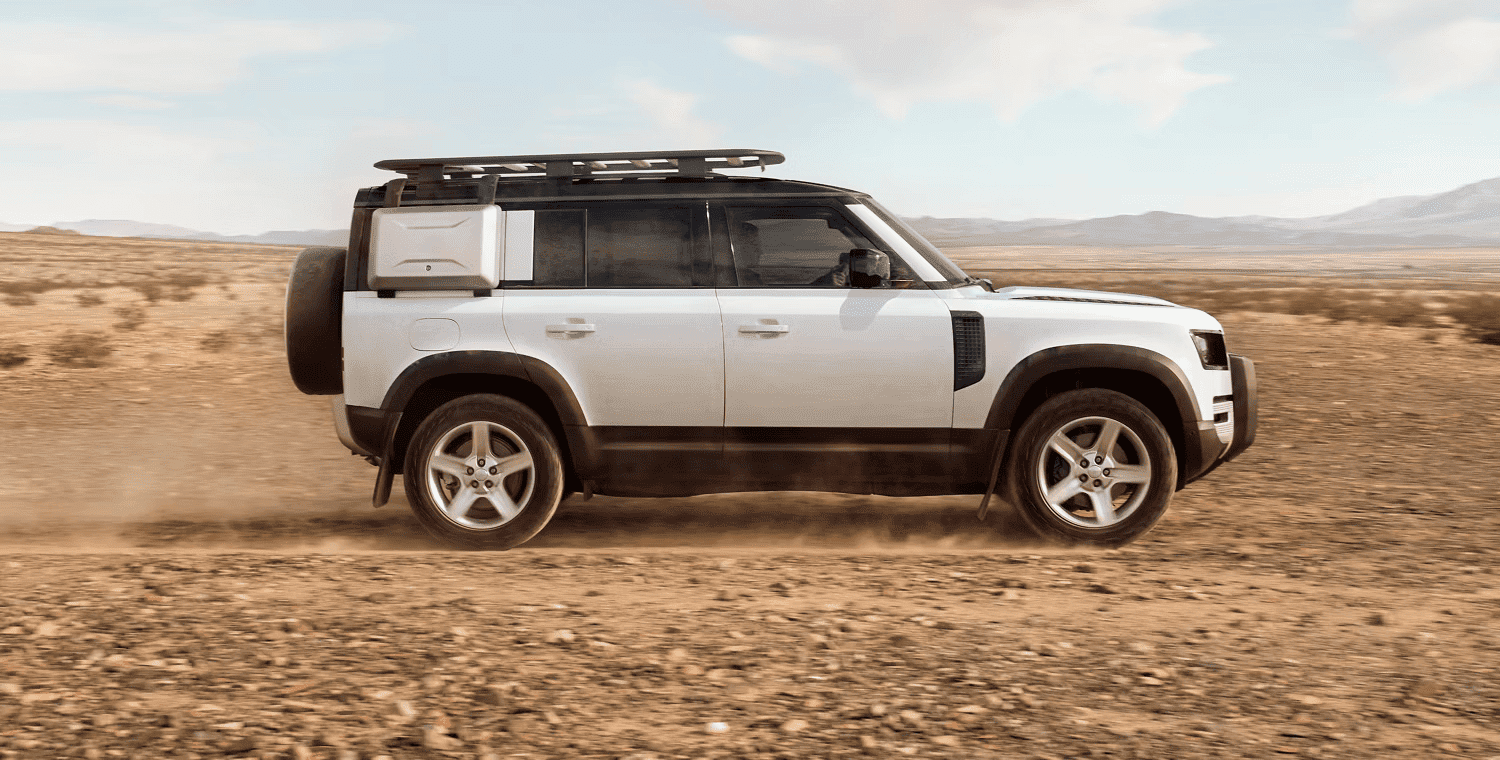
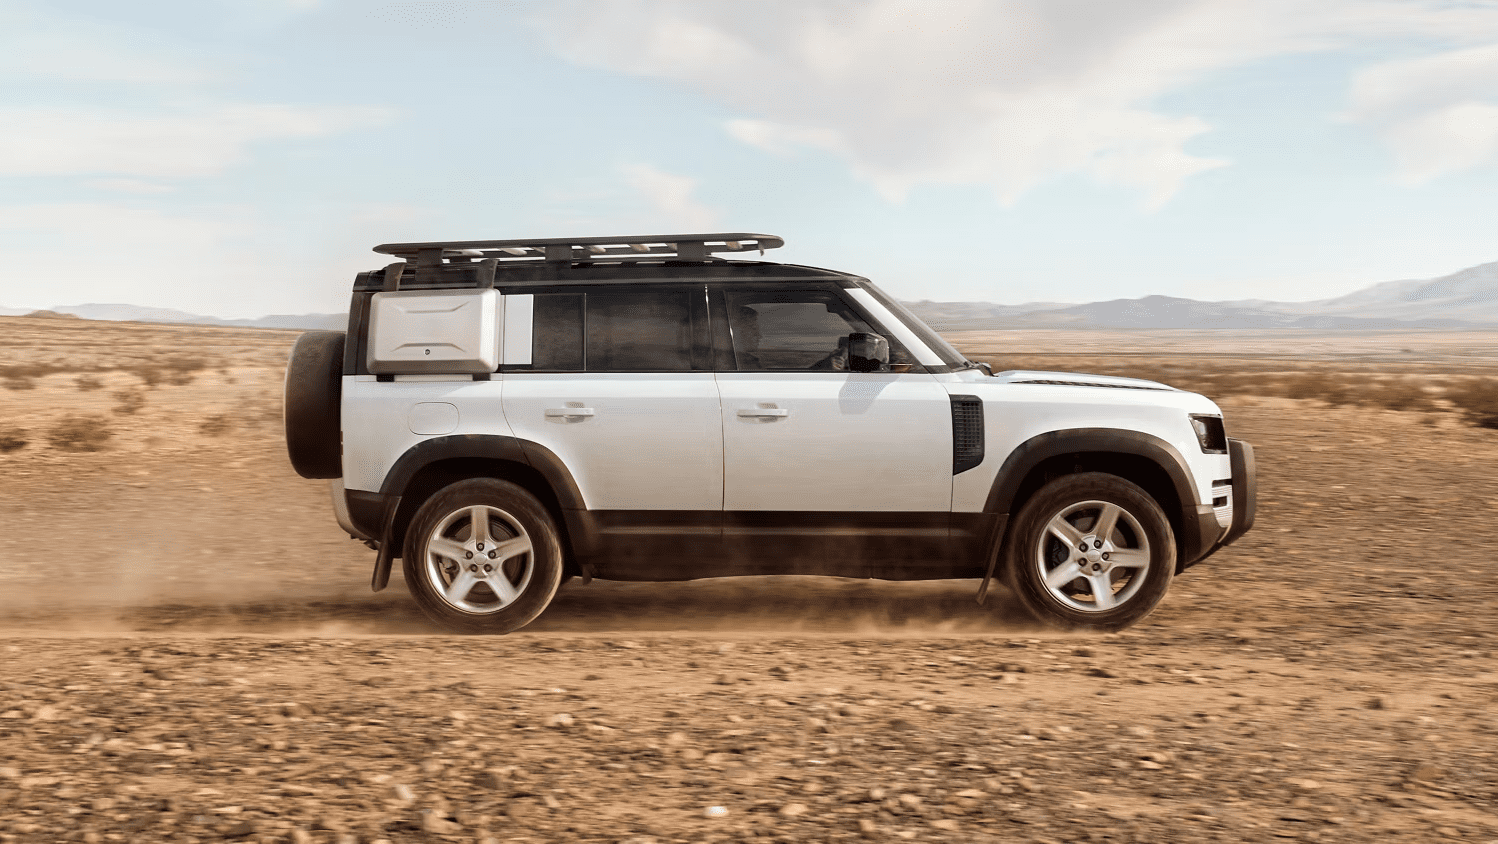
смена картинки в slider-auto

diff --git a/src/reused-Components/slider/Slider.css b/src/reused-Components/slider/Slider.css
@@ -42,15 +42,6 @@
   left: 0;
   transform: rotate(180deg);
 }
-.slider-img {
-  width: 100%;
-  height: auto;
-  cursor: grab;
-}
-.img1 {
-  width: 100%;
-  height: auto;
-}
 .video-hidden,
 .slider-img {
   width: 100%;

diff --git a/src/reused-Components/slider/SliderAuto.jsx b/src/reused-Components/slider/SliderAuto.jsx
@@ -28,6 +28,7 @@ function SliderAuto() {
     autoplaySpeed: 6960,
     swipeToSlide: true,
     pauseOnHover: false,
+    adaptiveHeight: true,
 
     nextArrow: <SampleNextArrow />,
     prevArrow: <SampleNextArrow />,
